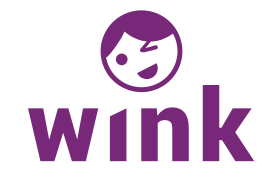
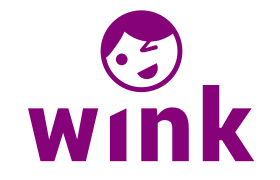
Unify purple color

diff --git a/stylesheets/master.css b/stylesheets/master.css
@@ -1,15 +1,15 @@
 body {
     font-family: 'ff-tisa-sans-web-pro', serif;
-    border-top: 4px solid #772878;
+    border-top: 4px solid #860278;
 }
 
 a {
-	color: #772878;
+	color: #860278;
 	font-weight: 900;
 }
 
 a:hover {
-	color: #772878;
+	color: #860278;
 }
 
 header {
